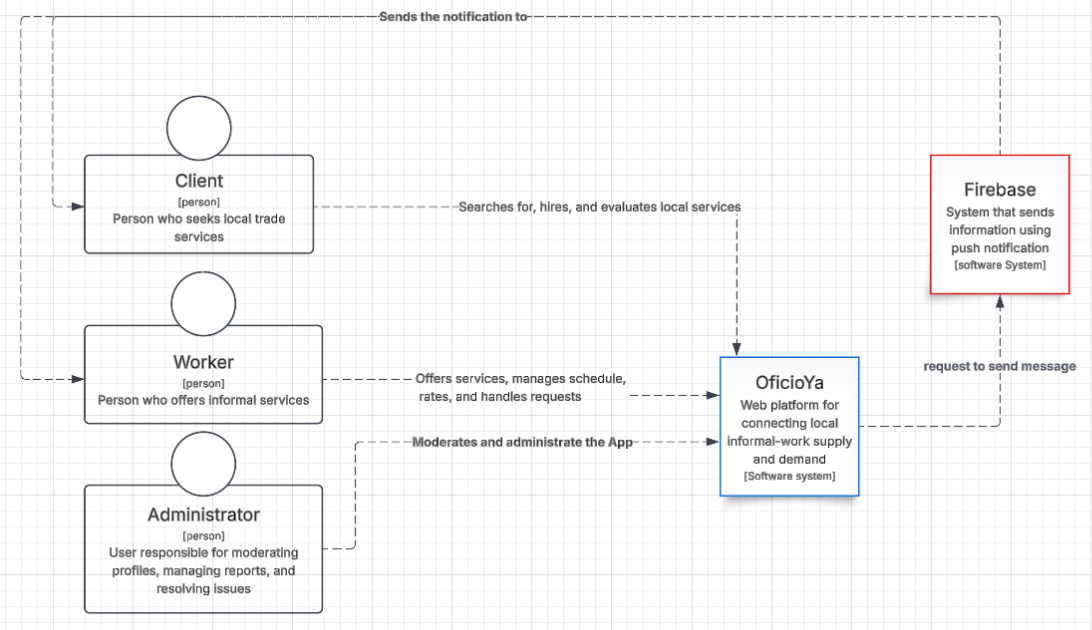
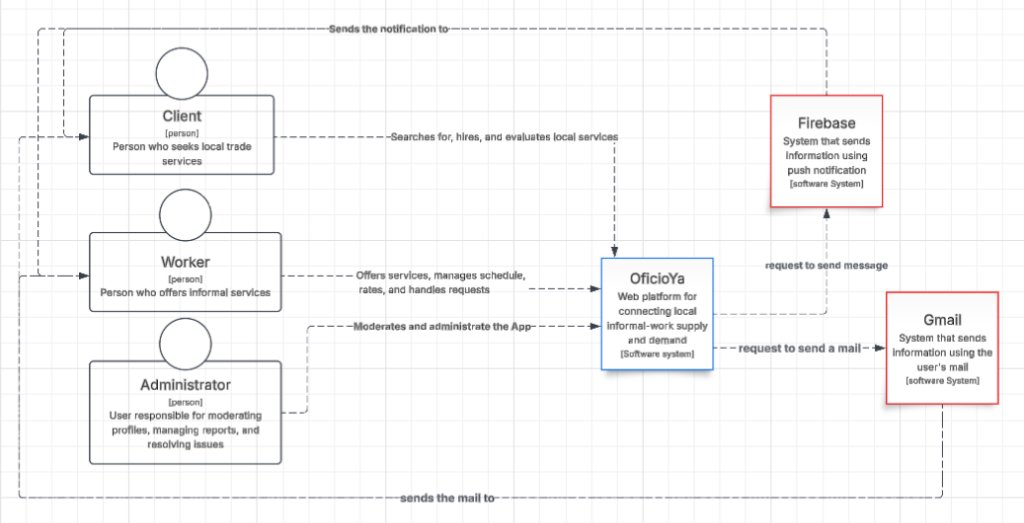
actualizar diagrama de contexto

diff --git a/ArchivoTecnico.md b/ArchivoTecnico.md
@@ -42,7 +42,7 @@ La solución sigue una arquitectura distribuida organizada en **5 dominios funci
 ## 3. Arquitectura del Sistema (C4 y UML)
 
 ### Vista General (Nivel 1 y Nivel 2 - Modelo C4)
-* **Diagrama de Contexto:** Interacción entre Contratante, Trabajador Independiente, Administrador y servicios externos (Gemini API, Firebase FCM y PSE).
+* **Diagrama de Contexto:** Interacción entre Cliente (Contratante), Trabajador Independiente, Administrador y servicios externos de notificación (Firebase y Gmail).
 
   ![Diagrama de Contexto](docs/arquitectura/general/01-c4-contexto.png)
 
